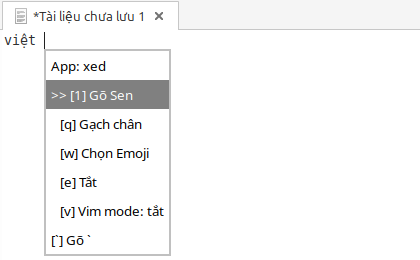
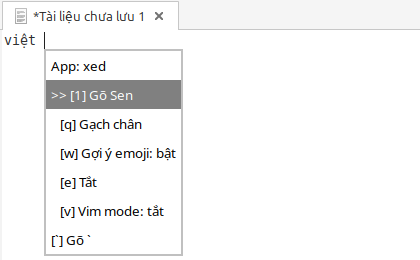
docs(guide): update the usage guide for 1.12.0-1
Rewrite /huong-dan/go-emoji/ for emoji suggestions, which replace the
Emoji picker mode. The mode, shortcut, typing and auto-correct pages
drop the old mode and the "(thử nghiệm)" labels; the window now has
nine pages and opens Kiểm tra máy on its first open after an update.
Screenshots retaken on Linux Mint 22.1 with the released package.

Assisted-by: AI

Changed region(s): [[0.3714, 0.1846, 0.4333, 0.9846], [0.1857, 0.5538, 0.3095, 0.6154]]

diff --git a/src/data/site.ts b/src/data/site.ts
@@ -2009,7 +2009,7 @@ export const GUIDE = [
       {
         href: '/huong-dan/go-emoji/',
         label: 'Gõ emoji',
-        summary: 'Tìm emoji bằng từ khoá ngay chỗ đang gõ.',
+        summary: 'Gõ xong một từ, bấm Tab để chọn emoji gợi ý cạnh con trỏ.',
       },
     ],
   },
